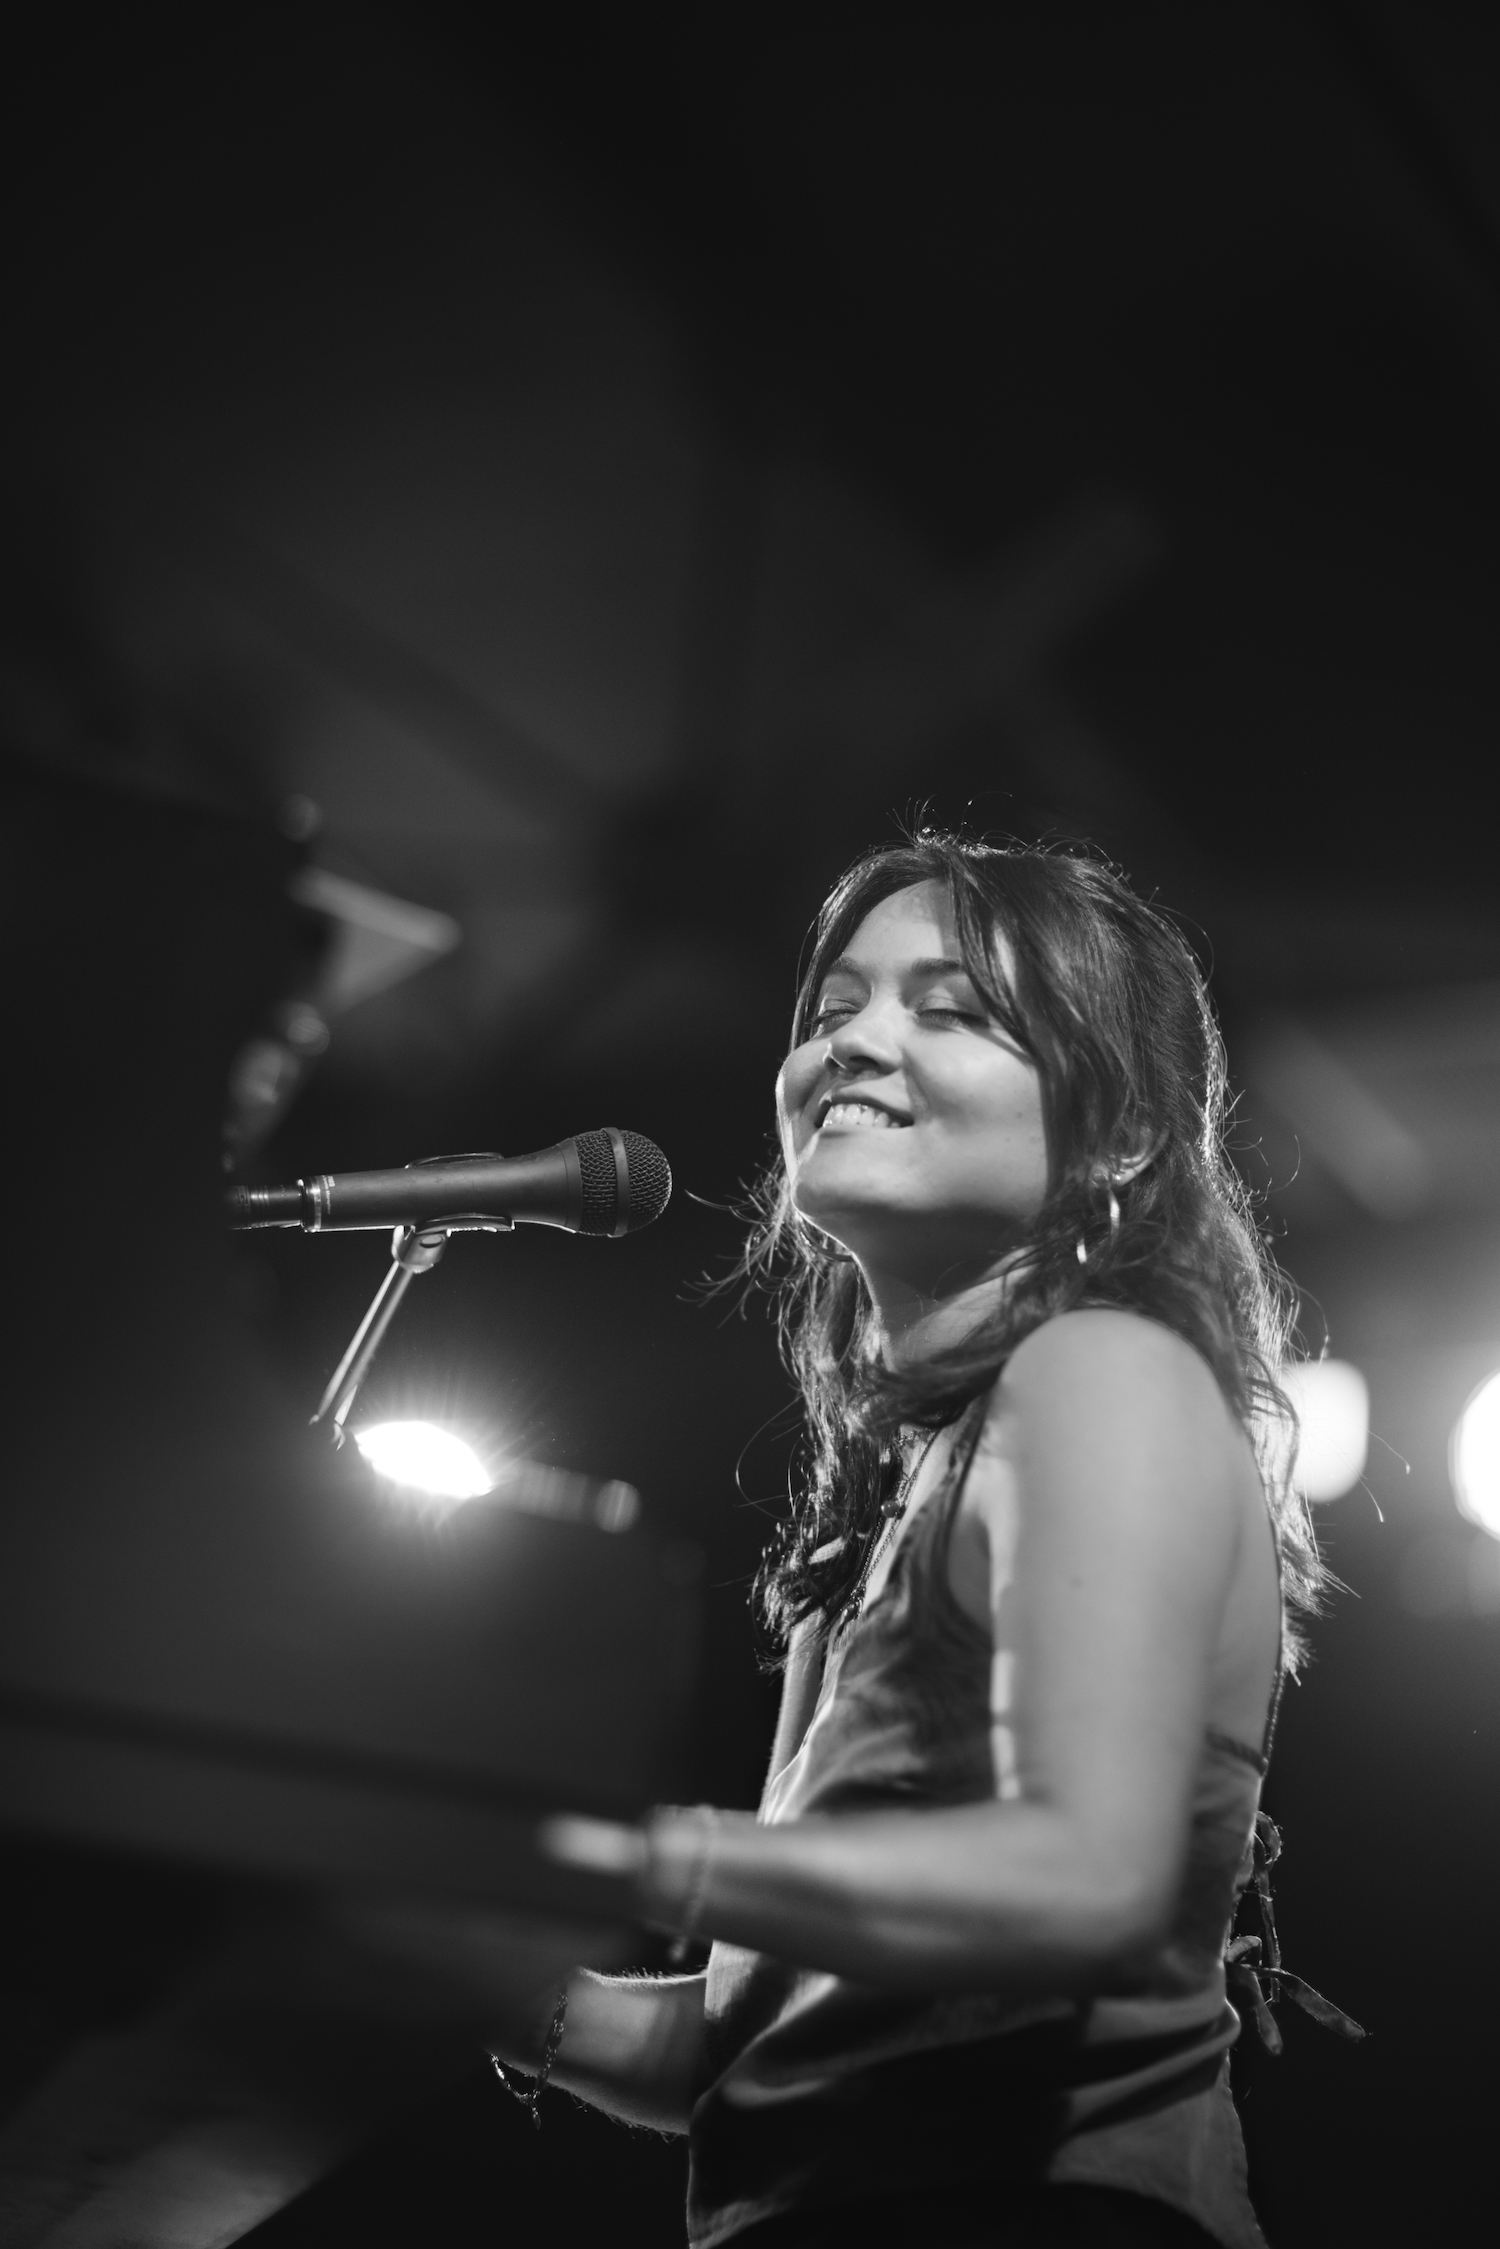
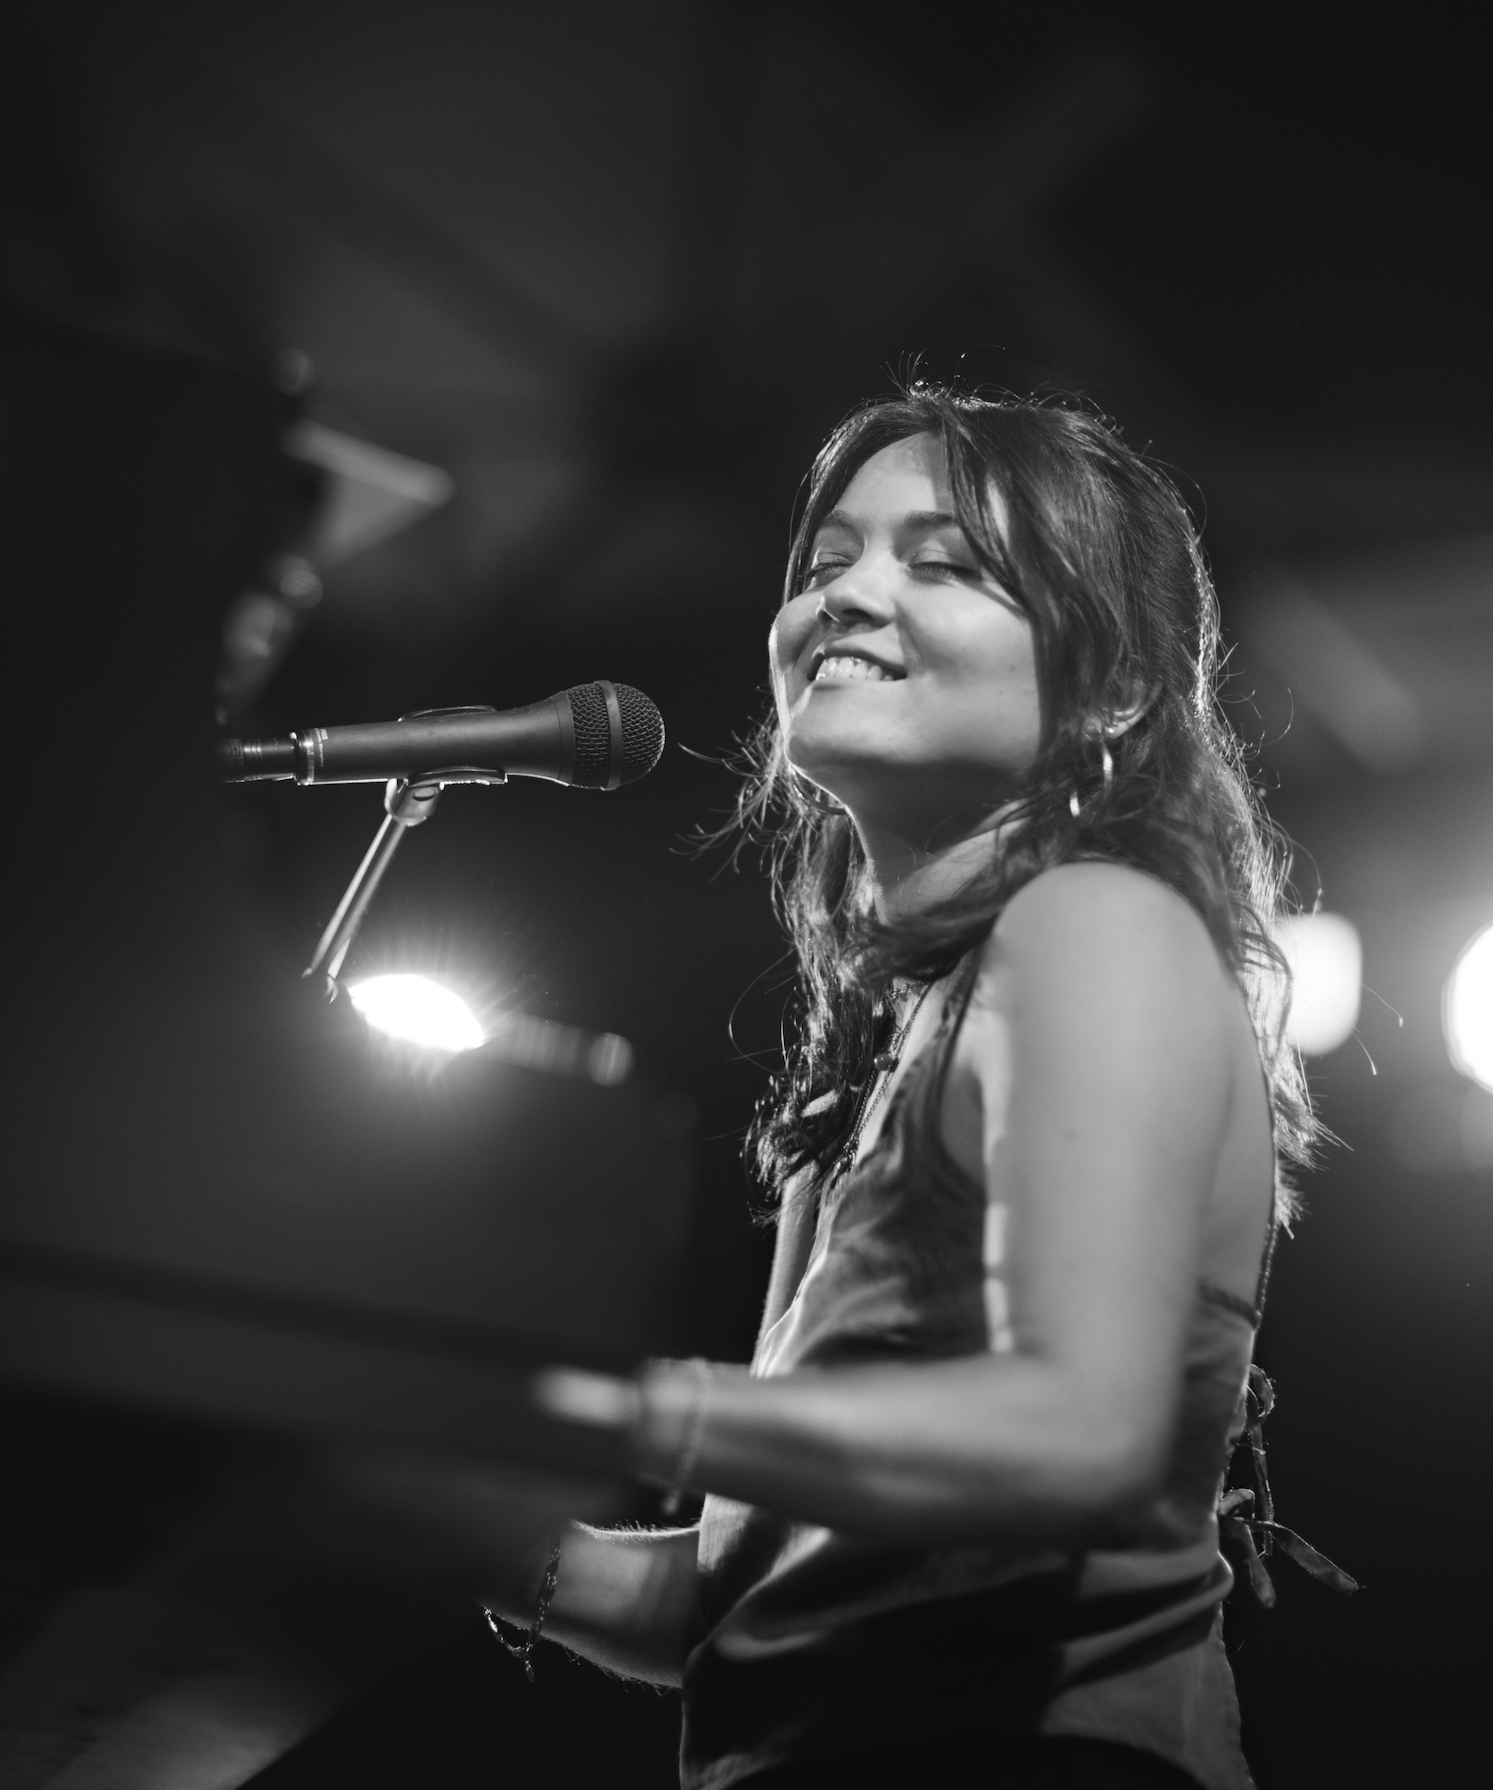
divider

diff --git a/index.html b/index.html
@@ -47,21 +47,28 @@
     <p class="bodytext">
       hello :) my name is christina!
       <br>
-      my favorite thing in the world to do is to write songs & to 
+      my favorite thing in the world to do is to write songs <br>& to 
       <span style="font-weight:bold;background-color:#fcd5ac;"><a href="records.html">record</a></span> and 
       <span style="font-weight:bold;background-color:#fcd5ac;"><a href="videos.html">play them live</a></span>
-      <br><br>i also love:
-
-      <br> ✿ <a href="collaborations.html">recording & performing with other artists</a>
-      <br> ✿ <a href="arranging.html">writing & arranging for larger ensembles & visual media</a>
-      <br> ✿ <a href="teaching.html">teaching</a>
-      <br> ✿ <a href="accompaniment.html">piano accompaniment</a>
-    </p>
+    </p>  
 
     <img src="assets/christina.jpg" alt="Christina Galisatus"; />
     <p class="photocredit">
       photo: <a href="https://www.brianbixbyphoto.com/">Brian Bixby</a>
     </p>
+
+    <p class="bodytext">
+          <br>i also love:
+
+          <br> ✿ <a href="collaborations.html">recording & performing with other artists</a>
+          <br> ✿ <a href="arranging.html">writing & arranging for larger ensembles & visual media</a>
+          <br> ✿ <a href="teaching.html">teaching</a>
+          <br> ✿ <a href="accompaniment.html">piano accompaniment</a>
+    </p>
+
+    <p class="divider">
+    <svg width = "80vw" height="50" xmlns="http://www.w3.org/2000/svg">
+      <rect width = "80vw" height = "5" x="0" y="0" rx="20" ry="20"></rect></svg></p>
 
     <b>contact: cmgalisatus at gmail dot com</b>
     <p class="bodytext">

diff --git a/style.css b/style.css
@@ -52,7 +52,7 @@ body text
 .bodytext {
     font-size: 1rem;
     opacity: 0.6;
-    margin-bottom: 3rem;
+    margin-bottom: 2rem;
     max-width: 650px;
     text-align: center;
     line-height: 1.5;
@@ -134,11 +134,24 @@ footer {
 }
 
 /* ------------------------------
+graphics
+-------------------------------*/
+.divider {
+    fill:#9a5b19;
+    fill-opacity:0.3;
+    stroke:#9a5b19;
+    stroke-width:0.1;
+    stroke-opacity:0.2;
+    display:flex;
+    flex-wrap: wrap;
+}
+
+/* ------------------------------
 photos + photo credits
 -------------------------------*/
 
 img {
-    max-height: 60vh;
+    max-height: 50vh;
     width: auto;
     height: auto;
     max-width: 90%;
@@ -149,8 +162,8 @@ img {
     font-size: 0.6rem;
     opacity: 0.6;
     margin-top: 0.5rem;
-    margin-bottom: 2rem;
     max-width: 400px;
+    margin-bottom: 0.5rem;
 }
 
 .photocredit a {
@@ -379,4 +392,6 @@ mobile responsive
         text-align: center;
         width: 100%;
     }
+
+
 }

diff --git a/arranging.html b/arranging.html
@@ -158,7 +158,10 @@
             </blockquote>
             <script async src="//www.instagram.com/embed.js"></script>
 
-
+    <p class="divider">
+    <svg width = "80vw" height="50" xmlns="http://www.w3.org/2000/svg">
+      <rect width = "80vw" height = "5" x="0" y="0" rx="20" ry="20"></rect></svg></p>
+      
             <h2 class="sectionheader">composition for visual media<br>
             </h2>
 

diff --git a/records.html b/records.html
@@ -156,6 +156,10 @@
     </div>
     </p>
    
+    <p class="divider">
+    <svg width = "80vw" height="50" xmlns="http://www.w3.org/2000/svg">
+      <rect width = "80vw" height = "5" x="0" y="0" rx="20" ry="20"></rect></svg></p>
+    
     <img src="assets/bellchoir.jpg" alt="Christina Galisatus" />
     <p class="photocredit">photo: <a href="https://nefariasfilms.net/">Alex Farias</a>
     </p>

diff --git a/collaborations.html b/collaborations.html
@@ -114,6 +114,9 @@
 
         <br>
 
+        <p class="divider">
+    <svg width = "80vw" height="50" xmlns="http://www.w3.org/2000/svg">
+      <rect width = "80vw" height = "5" x="0" y="0" rx="20" ry="20"></rect></svg></p>    
         <h2 class="sectionheader">selected live videos</h2>
 
         <div class="video-gallery">
